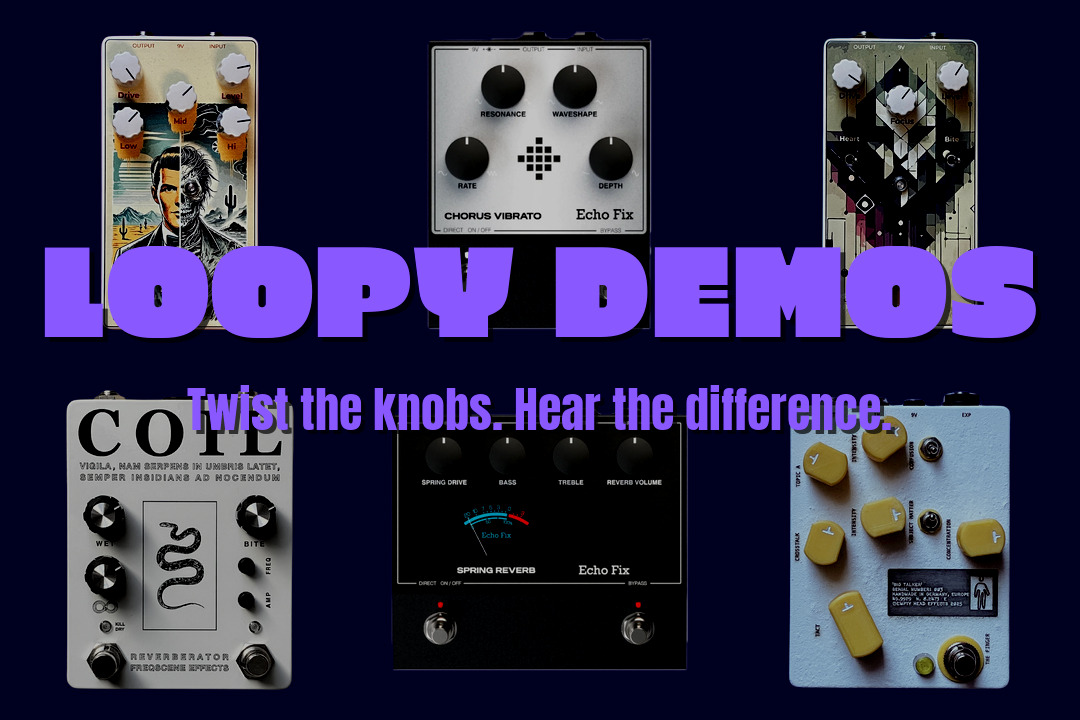
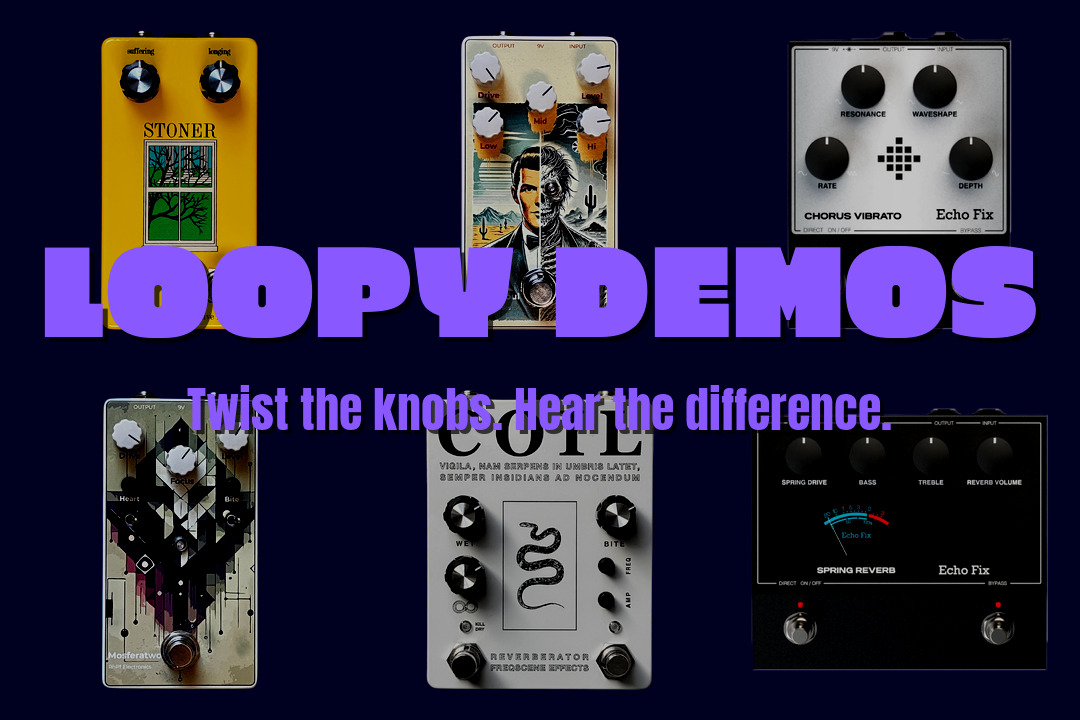
reasons to live books stoner (#38)
* feat: basic file setup

* feat: add copy

diff --git a/src/content/demos/reasons-to-live-books-stoner.md b/src/content/demos/reasons-to-live-books-stoner.md
@@ -1,0 +1,31 @@
+---
+builder: Reasons To Live Books
+model: Stoner
+slug: reasons-to-live-books-stoner
+type: demo
+isSponsored: true
+date: 2025-06-09
+tags:
+  - fuzz
+  - octave fuzz
+  - gated fuzz
+externalLinks:
+  builderLink: https://www.reasonstolivebooks.com/product/stoner-fuzz-pedal
+---
+
+Stoner is a unique fuzz pedal by Reasons To Live Books (yes, that's a book store).
+
+The circuit is designed and built by Freqscene Effects, Co.
+
+The name and the artwork are inspired by the book "Stoner" by John Williams. I actually read it after getting the pedal and now I really get the knob labels **SUFFERING** and **LONGING**. The novel is a weird mix of a super depressing story of the main character (Stoner) and a kind of cozy, stoic prose that makes you feel like you're reading a book by a fireplace in a cabin.
+
+**SUFFERING** changes the texture of the fuzz. It goes from smooth-ish Big Muff-like wall of fuzz all the way to a gated, splatty fuzz that sounds like a dying circuit. **LONGING** adjusts the output volume.
+
+The circuit is completely original. Stoner is honestly a lot of fun to play. It's like wielding a burning sword. You can never stop playing or you'll burn yourself!
+
+### Signal Chain
+
+- Fidelity Guitars Stellarosa Lite II with Lollar Firebird pickups (bridge pickup)
+- Stoner
+- [Mixwave Benson Chimera Plugin*](https://sweetwater.sjv.io/B0N2PL)
+- A bit of room-like reverb from the [Valhalla Vintage Verb plugin](https://valhalladsp.com/shop/reverb/valhalla-vintage-verb/)
